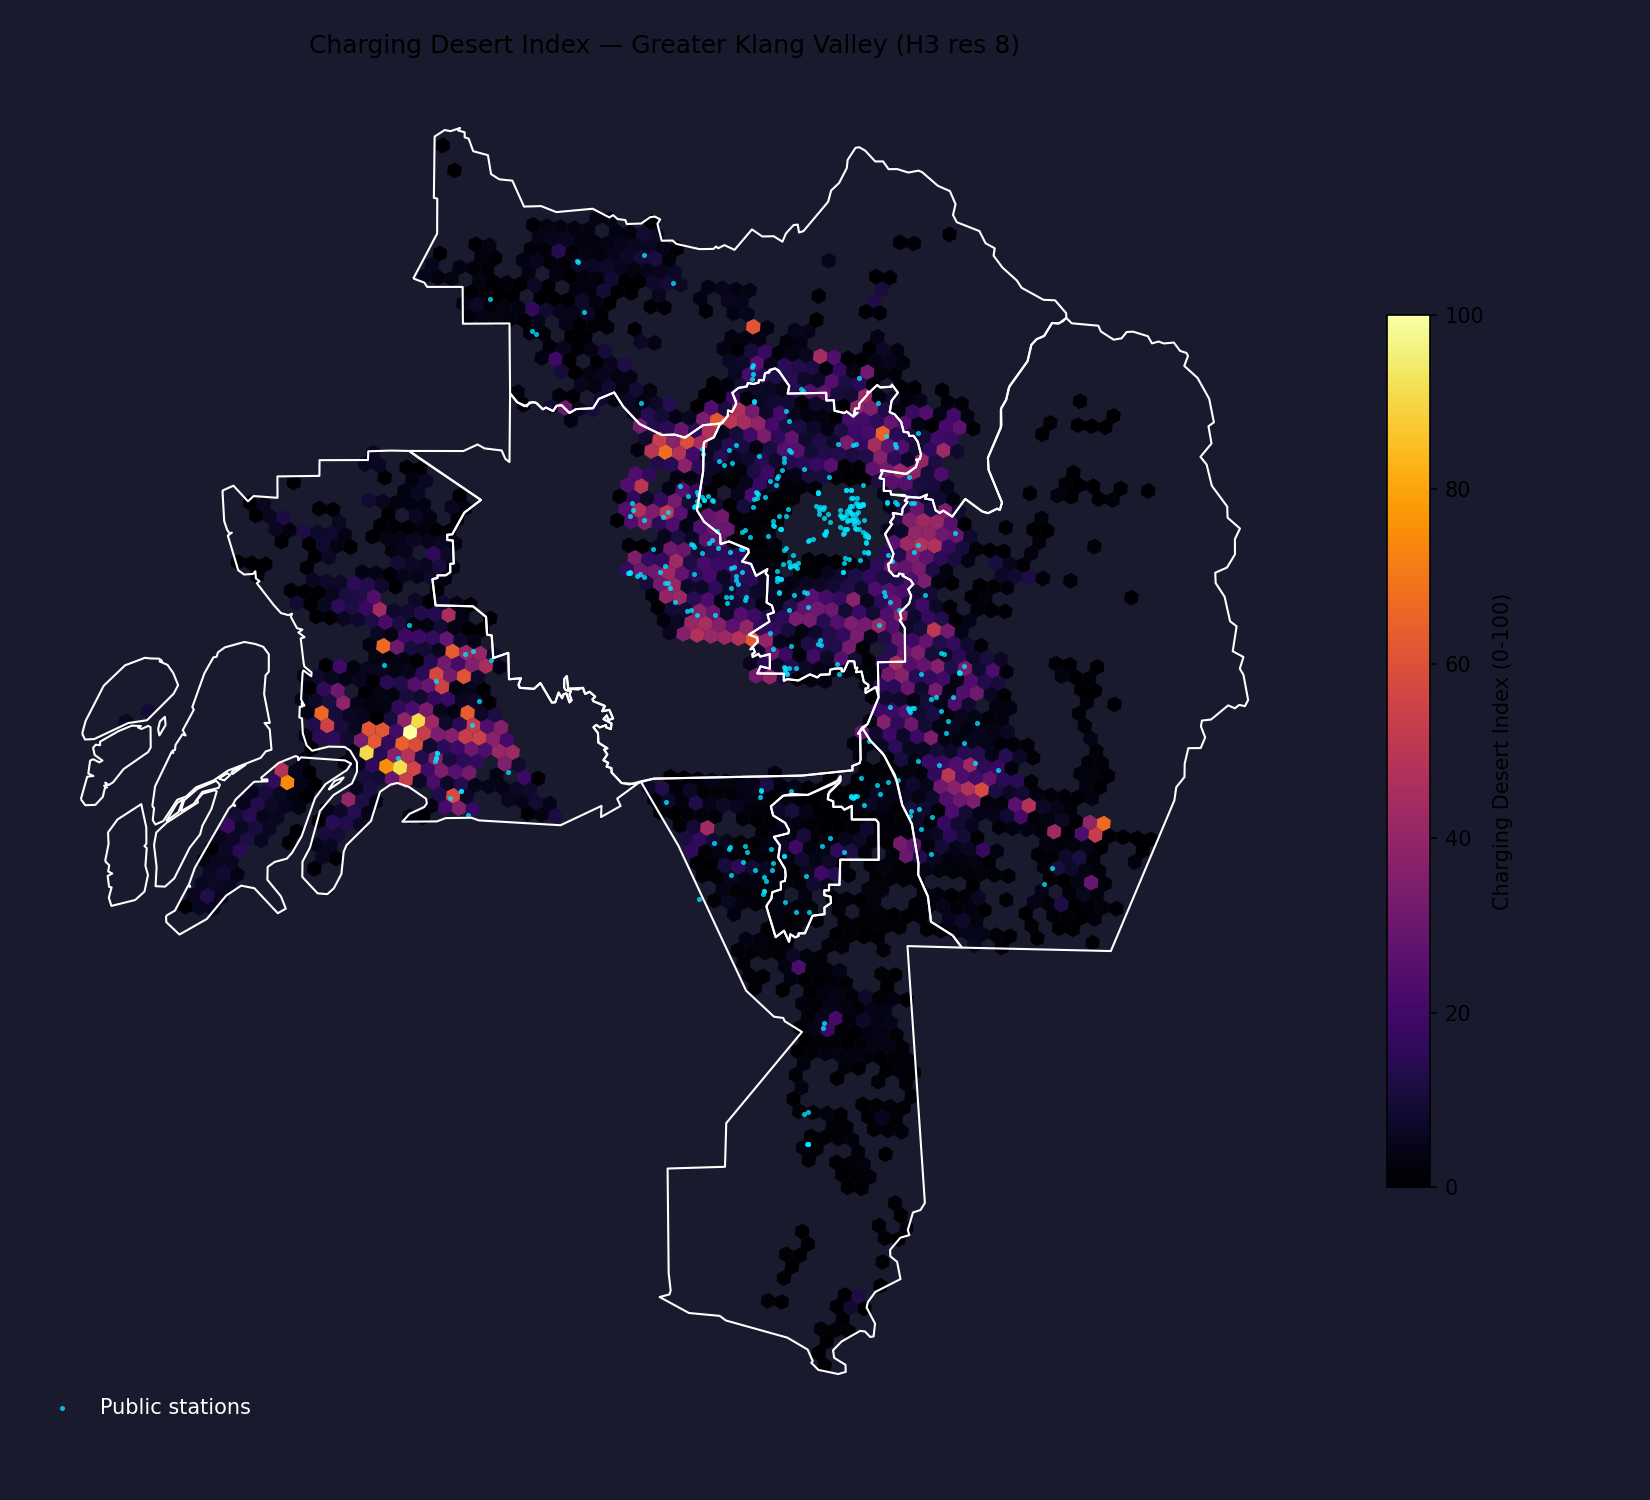
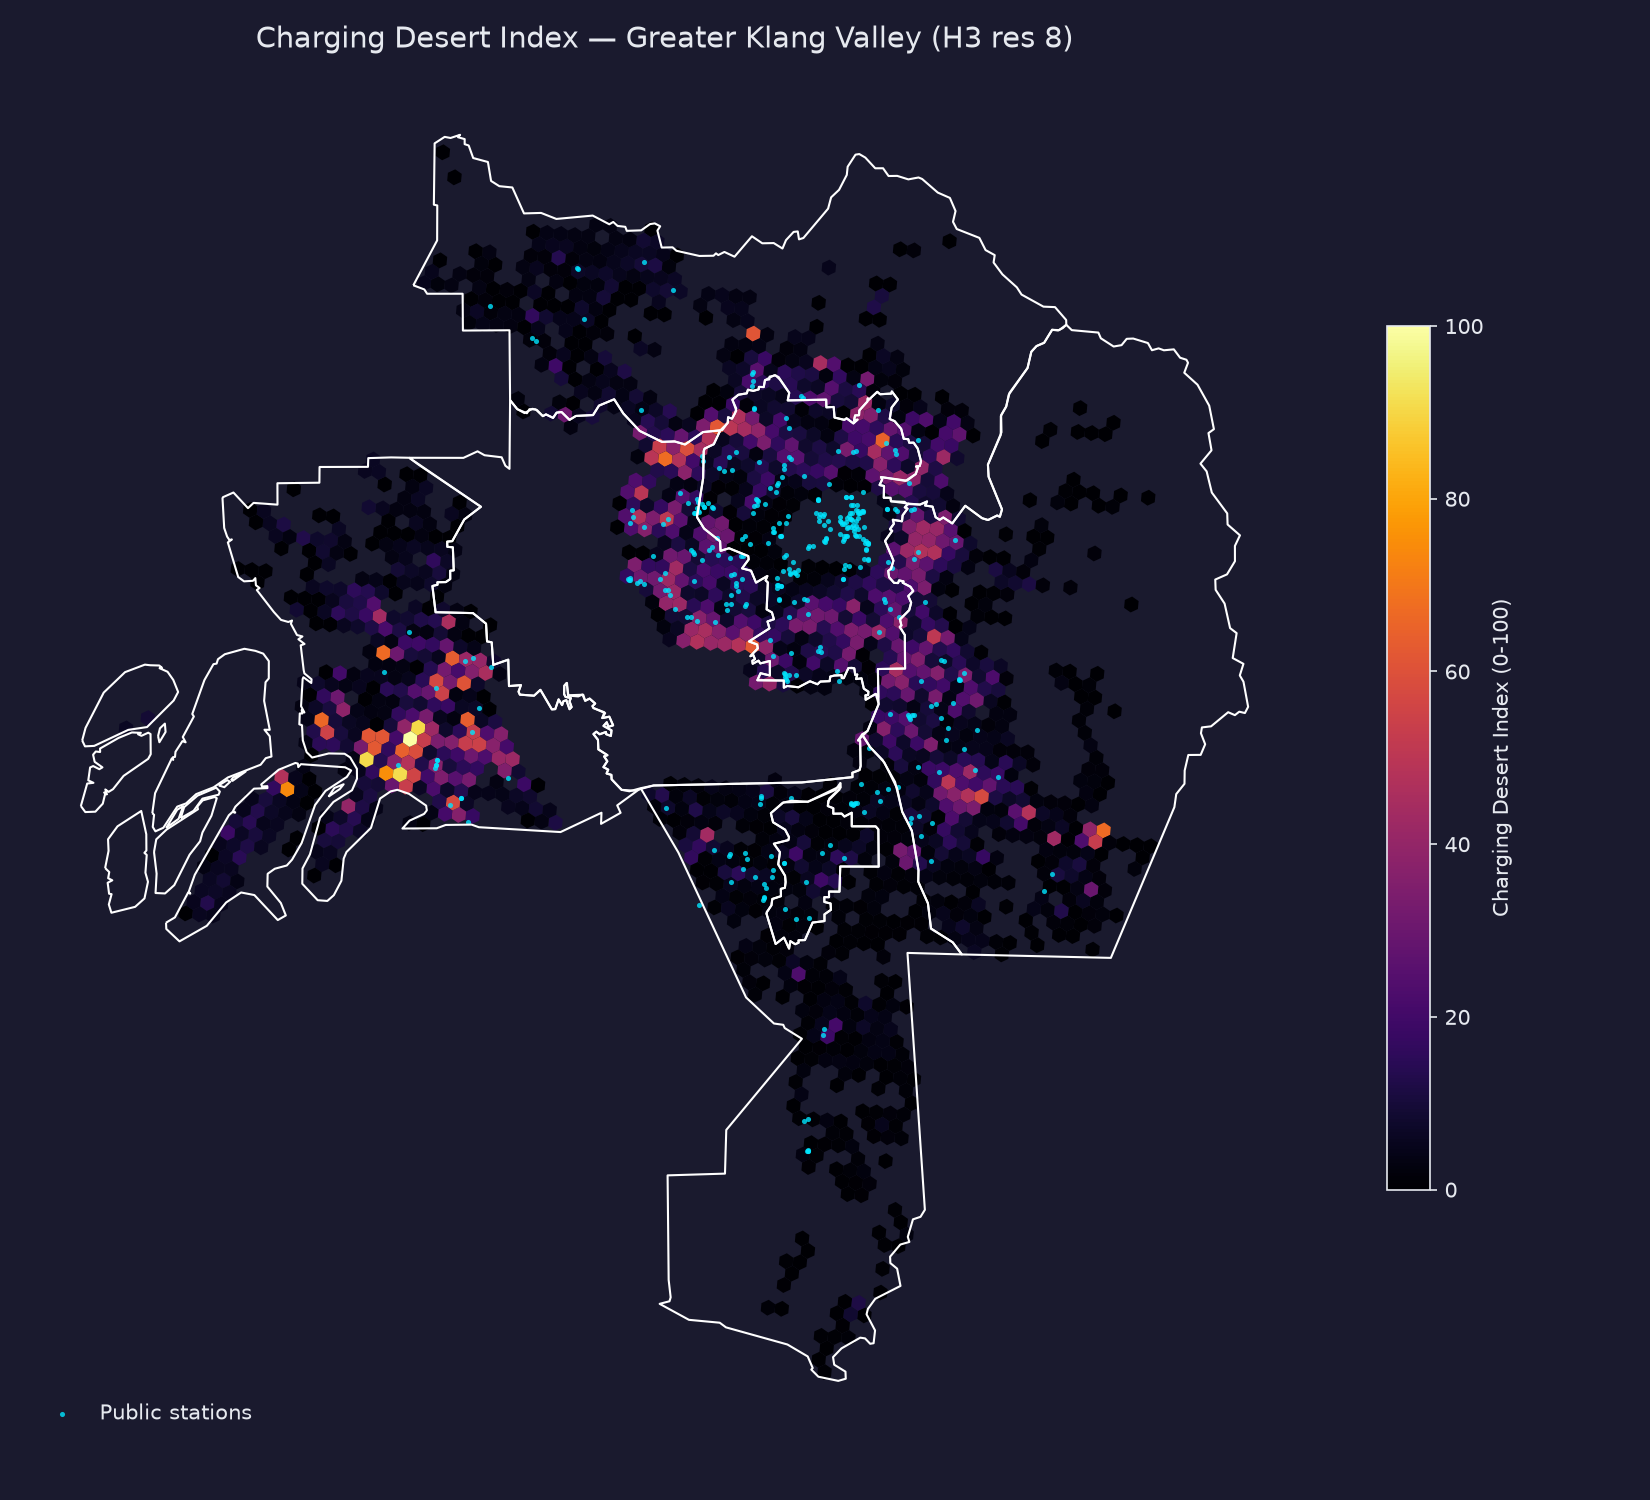
make hero map text legible (near-white on dark canvas)
Recolor cdi_map.png title, colorbar label and tick labels to #E6E9EF in
pipeline/06_build_cdi.py and regenerate the map; remove the hero-legibility
item from POLISH.md (keep the end-of-project dark-on-dark sweep).

diff --git a/pipeline/06_build_cdi.py b/pipeline/06_build_cdi.py
@@ -194,6 +194,7 @@ try:
                            geometry=[cell_polygon(c) for c in hexes["h3_index"]],
                            crs="EPSG:4326")
     kv = gpd.read_file(os.path.join(OUT_DIR, "kv_districts_dosm.geojson"))
+    TXT = "#E6E9EF"                       # near-white text, legible on dark canvas
     fig, ax = plt.subplots(figsize=(11, 10))
     gdf[gdf["cdi"] > 0].plot(column="cdi", cmap="inferno", ax=ax, legend=True,
                              vmin=0, vmax=100,
@@ -202,9 +203,16 @@ try:
     kv.boundary.plot(ax=ax, color="white", linewidth=1.0)
     ax.scatter(supply_st["longitude"], supply_st["latitude"],
                s=6, c="#00e5ff", alpha=0.8, linewidths=0, label="Public stations")
-    ax.legend(loc="lower left", frameon=False, labelcolor="white")
-    ax.set_title("Charging Desert Index — Greater Klang Valley (H3 res 8)")
+    ax.legend(loc="lower left", frameon=False, labelcolor=TXT)
+    ax.set_title("Charging Desert Index — Greater Klang Valley (H3 res 8)",
+                 color=TXT, fontsize=14, pad=12)
     ax.set_axis_off()
+    # near-white colorbar label + tick labels (legend=True adds the colorbar axis)
+    cax = fig.axes[-1]
+    cax.yaxis.label.set_color(TXT)
+    cax.tick_params(colors=TXT)
+    for spine in cax.spines.values():
+        spine.set_edgecolor(TXT)
     fig.tight_layout()
     fig.savefig(os.path.join(OUT_DIR, "cdi_map.png"), dpi=150, facecolor="#1a1a2e")
     print("  Map saved -> cdi_map.png")

diff --git a/POLISH.md b/POLISH.md
@@ -6,26 +6,12 @@ here at the end so the whole system gets one consistent visual finish.
 
 ---
 
-## 1. Hero map legibility (cdi_map.png) + dark-on-dark sweep
-**Problem:** on the Executive Overview, the hero image `processed_data/cdi_map.png`
-reads poorly — the colorbar/legend text and the low-CDI hexes are too dark against
-the near-black canvas (`facecolor="#1a1a2e"`), so the bottom half of the ramp and
-the legend labels are hard to see.
-
-**Fix (during final polish):**
-- Regenerate the map from `pipeline/06_build_cdi.py` with:
-  - a **lighter canvas floor** (raise the figure/axes facecolor above `#1a1a2e`,
-    or add a subtle mid-tone panel behind the hexes) so low-CDI inferno values
-    separate from the background;
-  - **brighter legend/colorbar text** (white or near-white tick labels + label,
-    higher contrast) — currently dark grey on dark.
-- Re-run stage 06 to overwrite `cdi_map.png`; the Overview reads it automatically.
-- Keep the inferno ramp and all data semantics unchanged (DESIGN.md §3) — this is
-  a contrast/legibility fix only.
-
-**Also (end-of-project):** sweep **every page** for dark-on-dark legibility —
-map legends, captions, muted text, axis labels, tooltip contrast — at 1366×768
-in the dark theme. Anything that disappears against the background gets lifted.
+## 1. Dark-on-dark legibility sweep (end of project)
+Sweep **every page** for dark-on-dark legibility — map legends, captions, muted
+text, axis labels, tooltip contrast — at 1366×768 in the dark theme. Anything that
+disappears against the background gets lifted.
+*(The `cdi_map.png` hero title/colorbar have already been fixed to near-white
+`#E6E9EF`.)*
 
 ---
 
